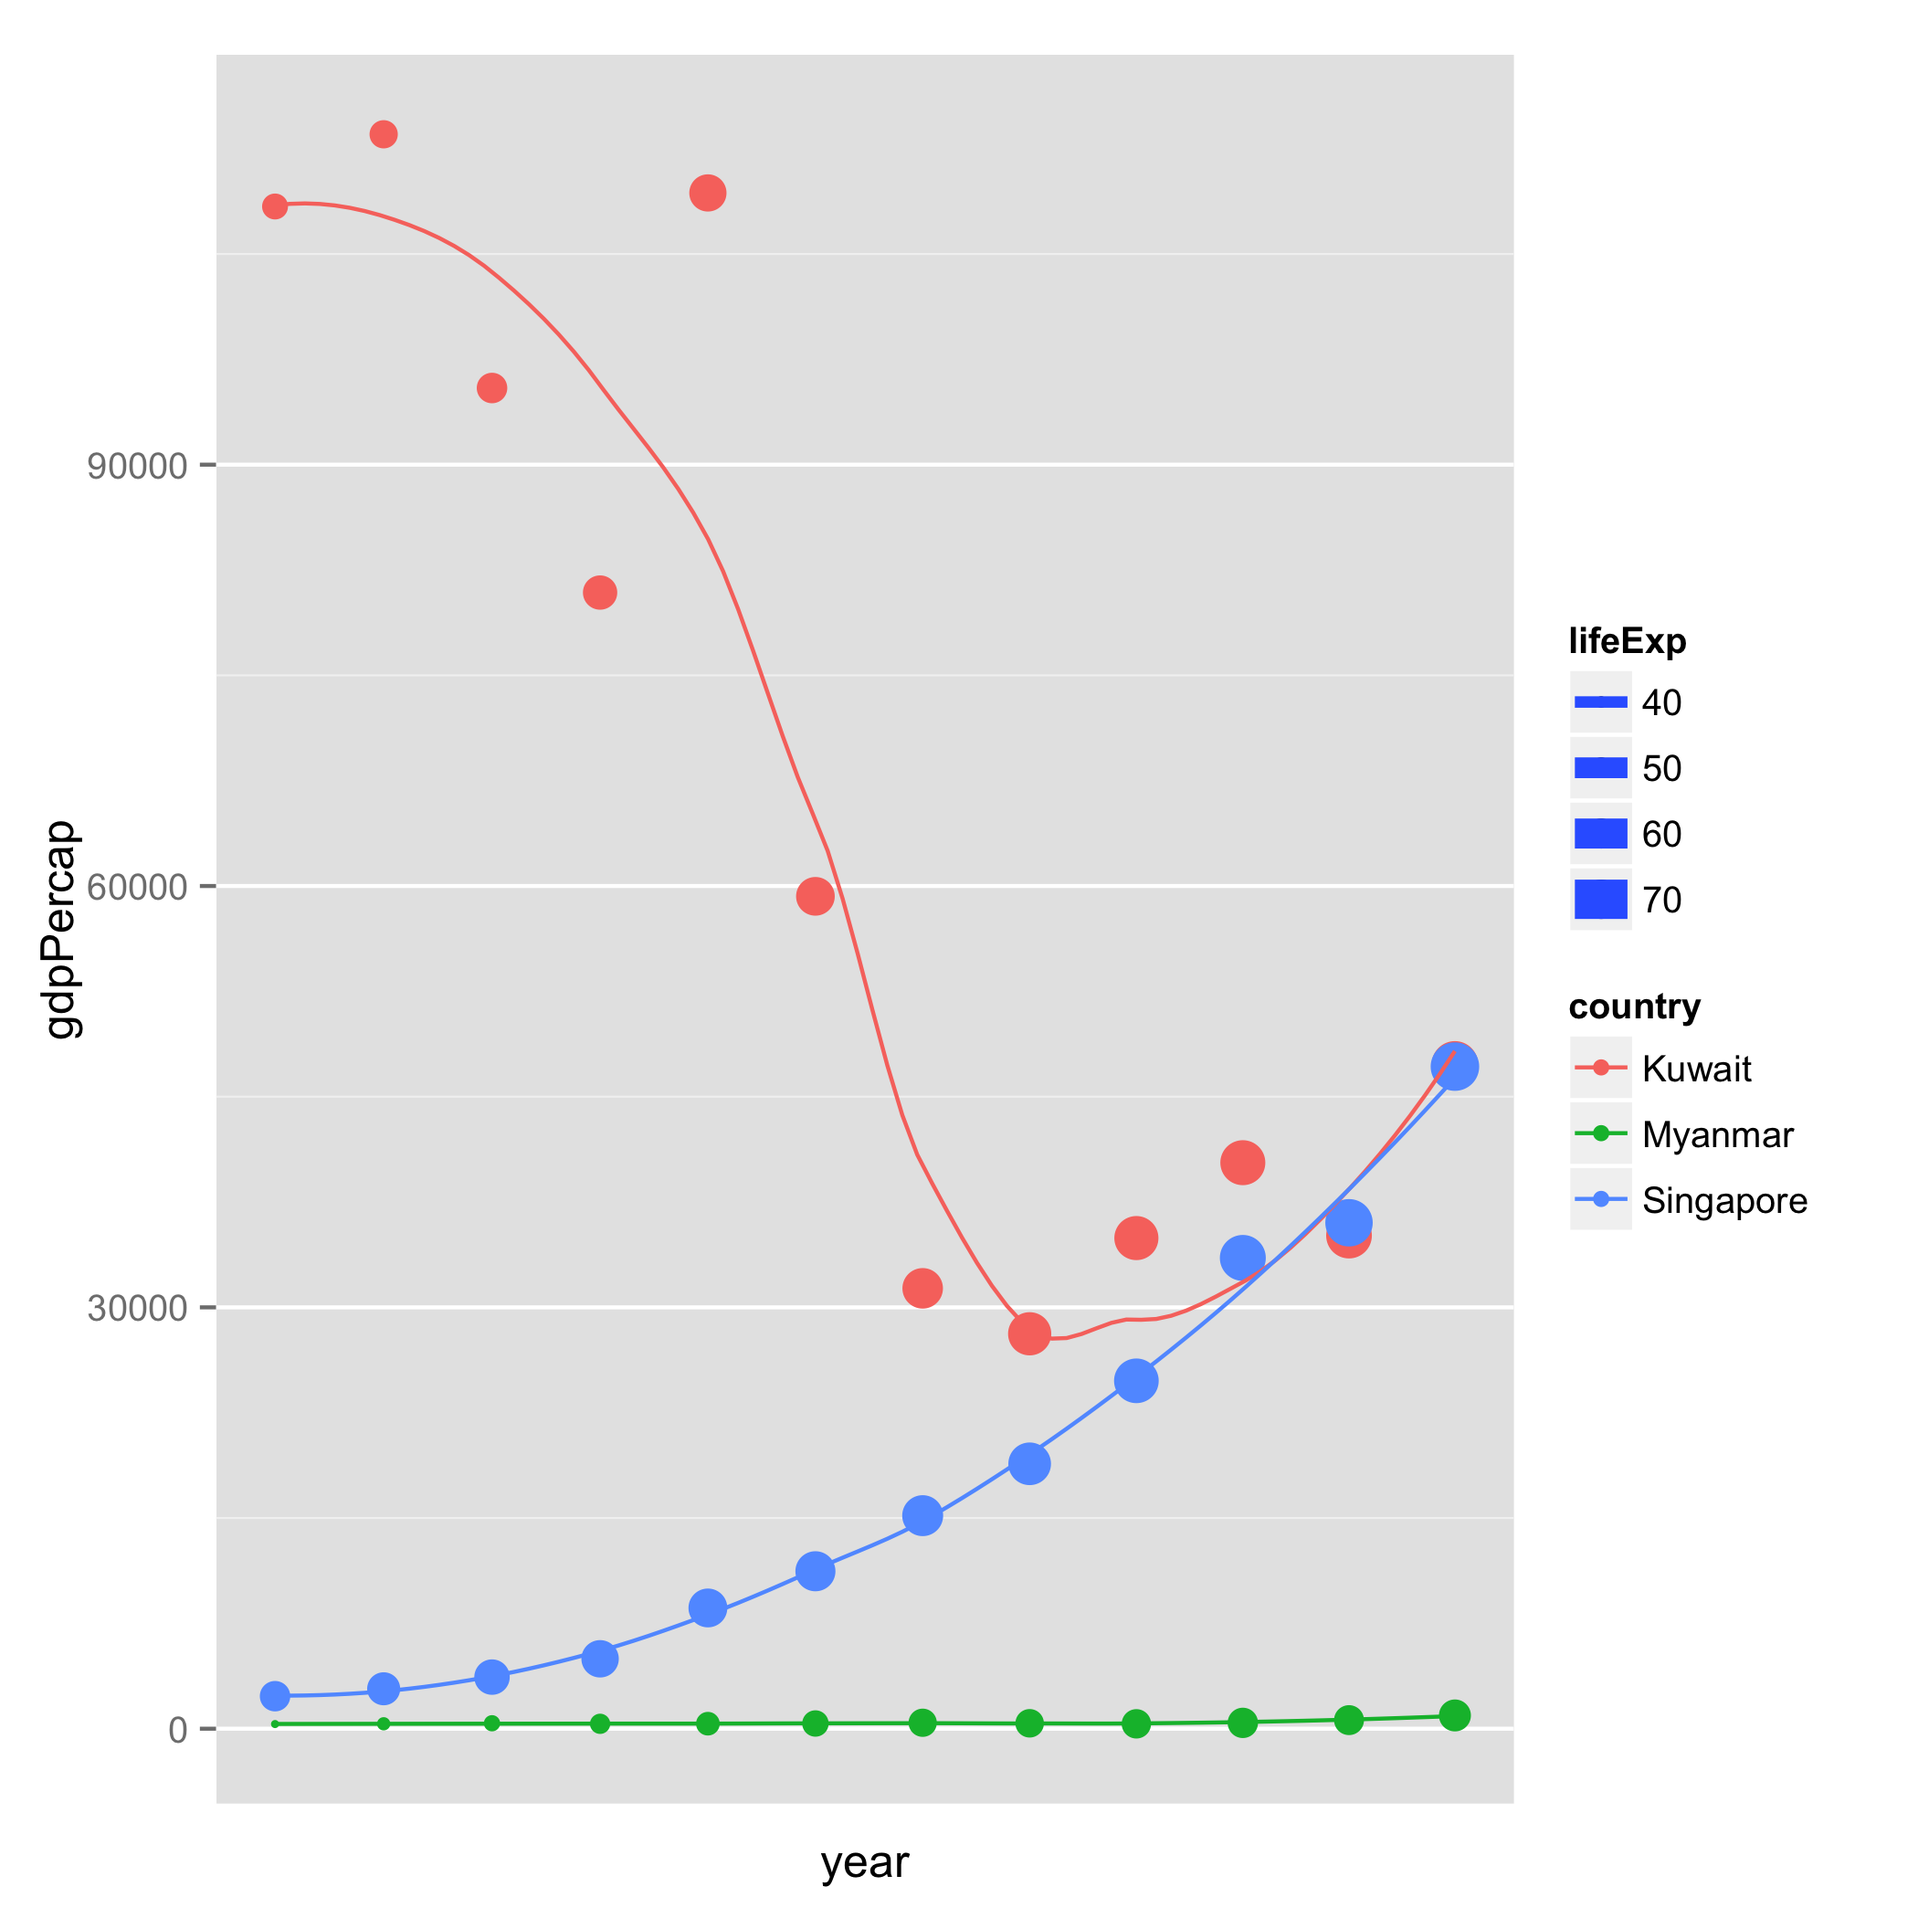
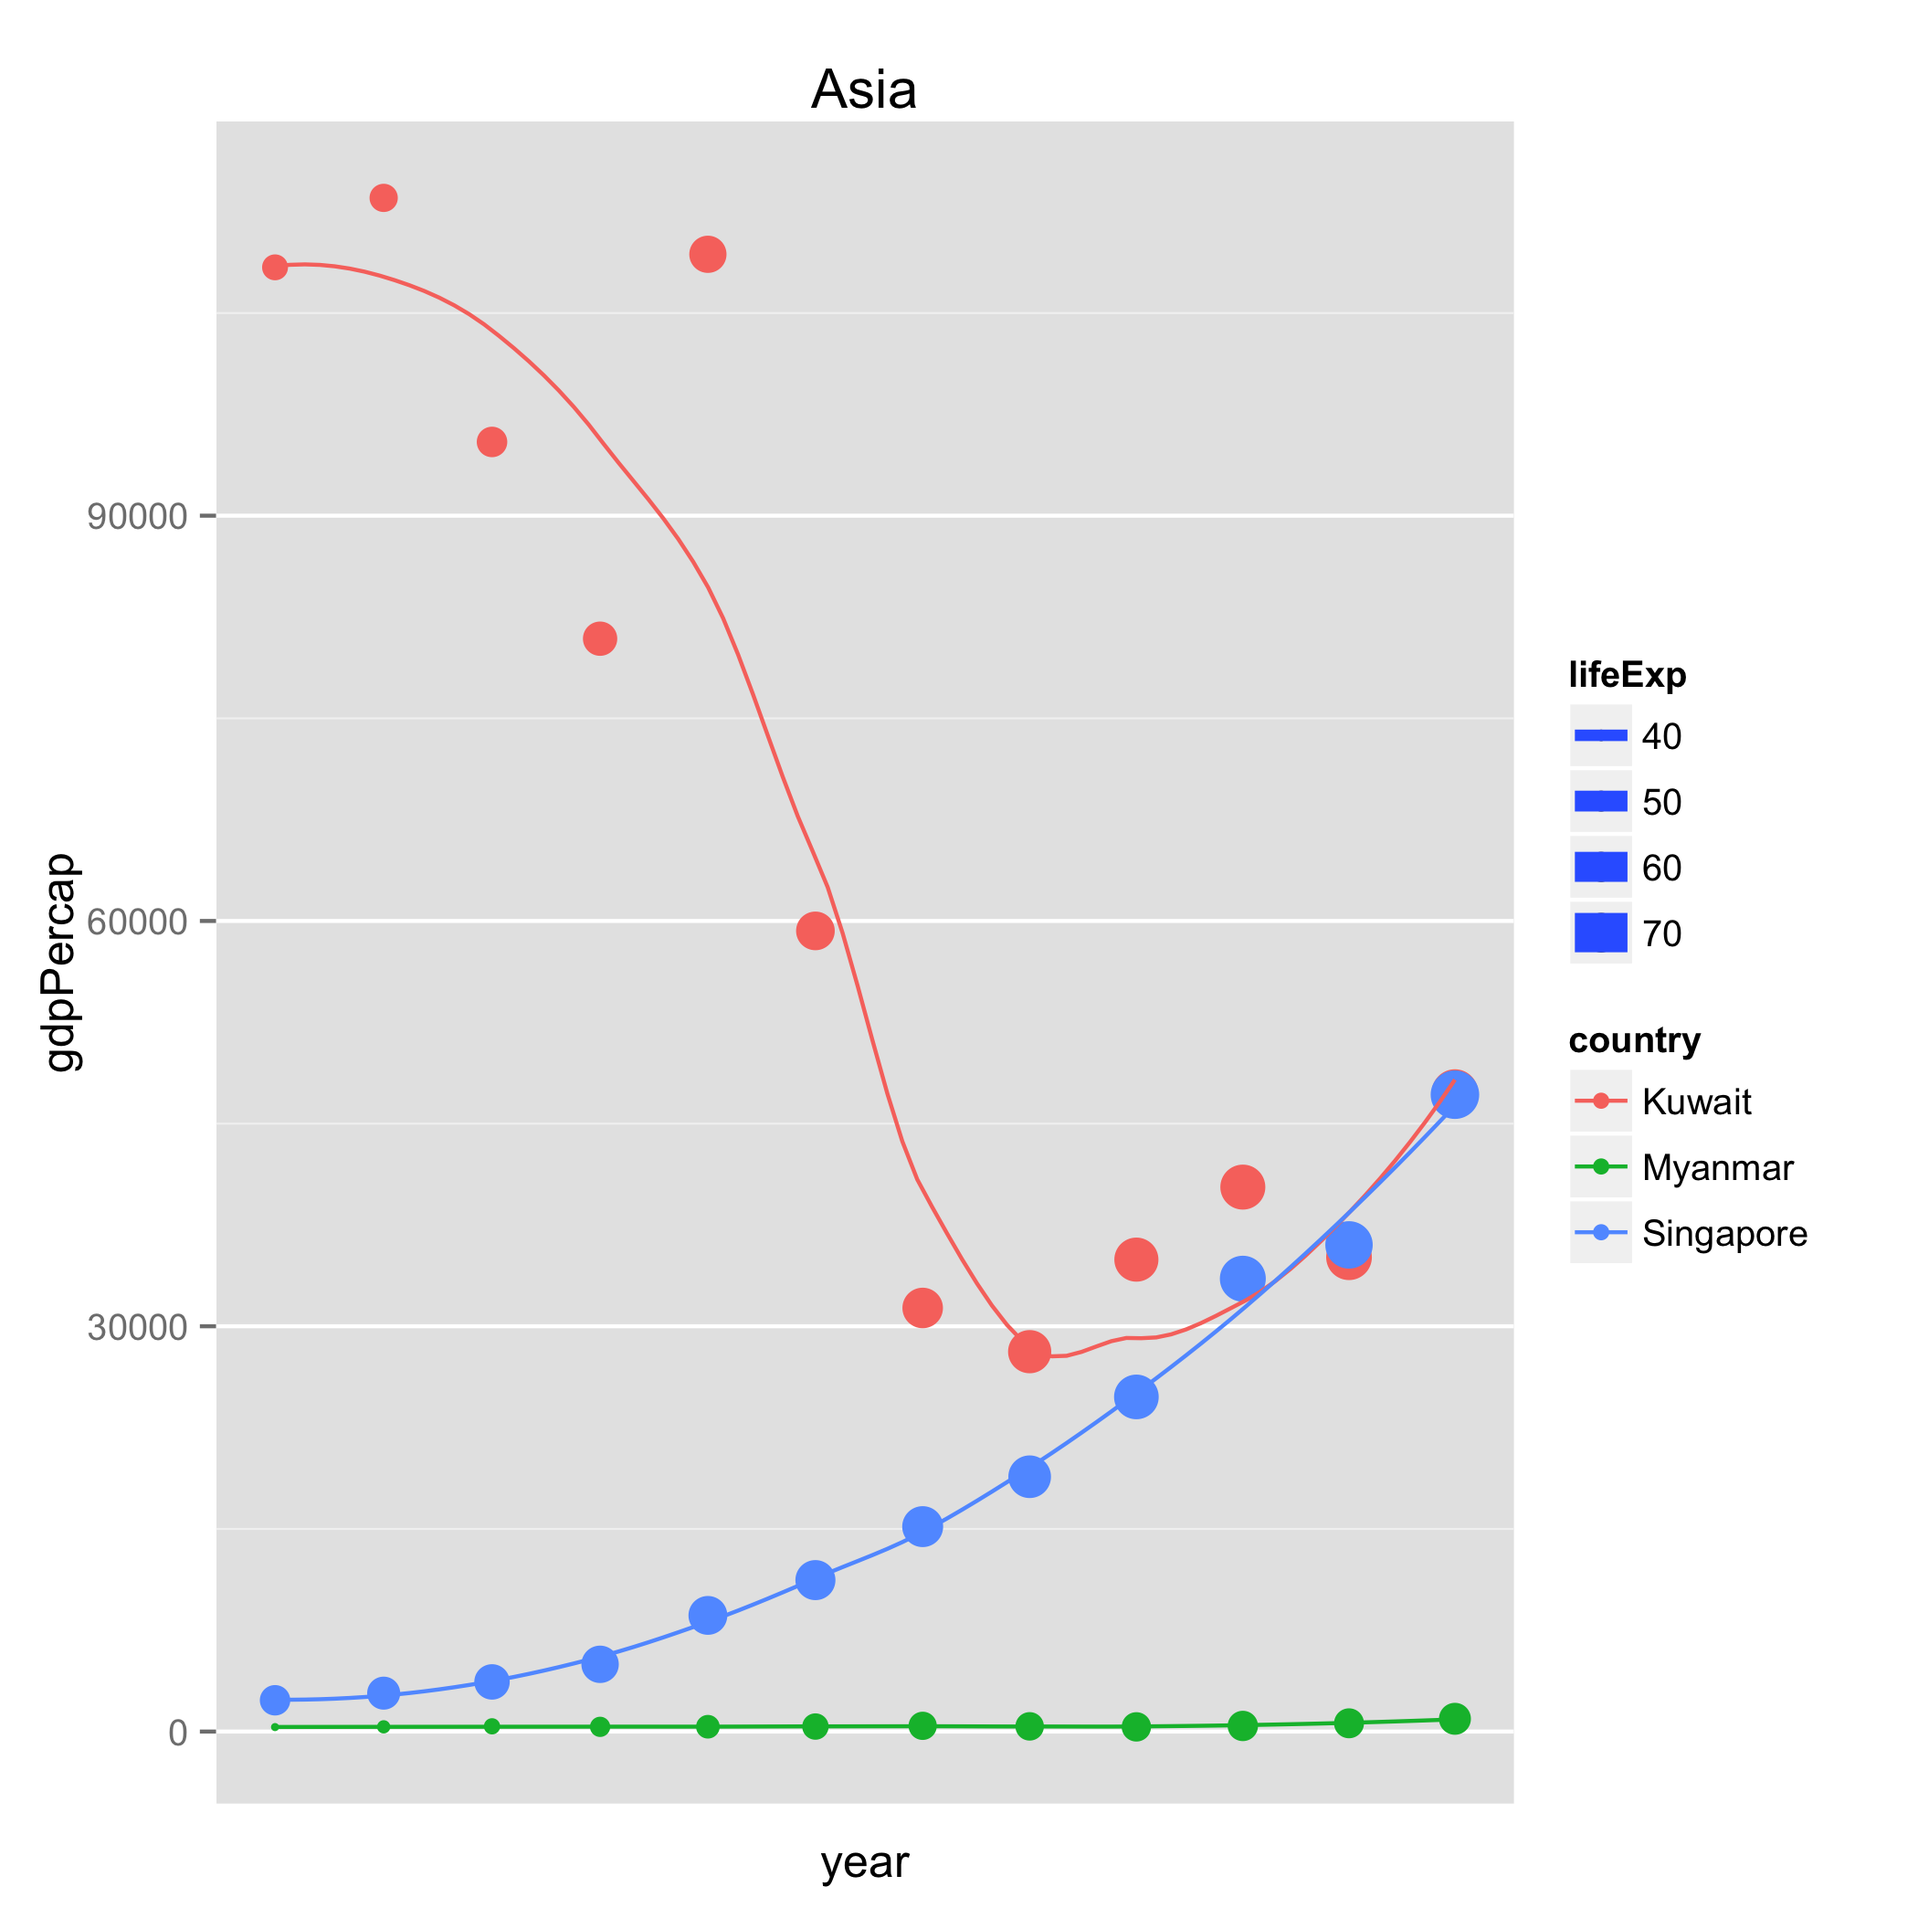
edit plots

diff --git a/report.md b/report.md
@@ -9,7 +9,7 @@ The pipeline works as follows:
 2) Use gapminder.tsv and **analysis.R** to analyse and explore the data. I reorder continents on basis of standard deviation of gdp per capita, excluding Oceania which has only 2 countries. 
 ![](gdpPercap.png)
 
-I filter observations that show minimum/maximum gdp per capita for each continent, for a year. I keep only these country levels and write the new dataset to file as gap_data_clean.tsv
+I filter observations that show minimum/maximum gdp per capita for each continent, for a year. I keep only these country levels and write the new dataset to file as gap_data_clean.tsv. Here's the corresponding plot:
 ![](min_maxgdppercap.png)
 
 3) Using gap_data_clean.tsv and **stats.R** I plot the linear regression function for life expectancy vs. gdp per capita for each country (for the selected country and continent levels), filter the results for each continent which show the lowest standard deviation of residual (lowest 3) and write the filtered results to file as linfit_filtered.tsv
